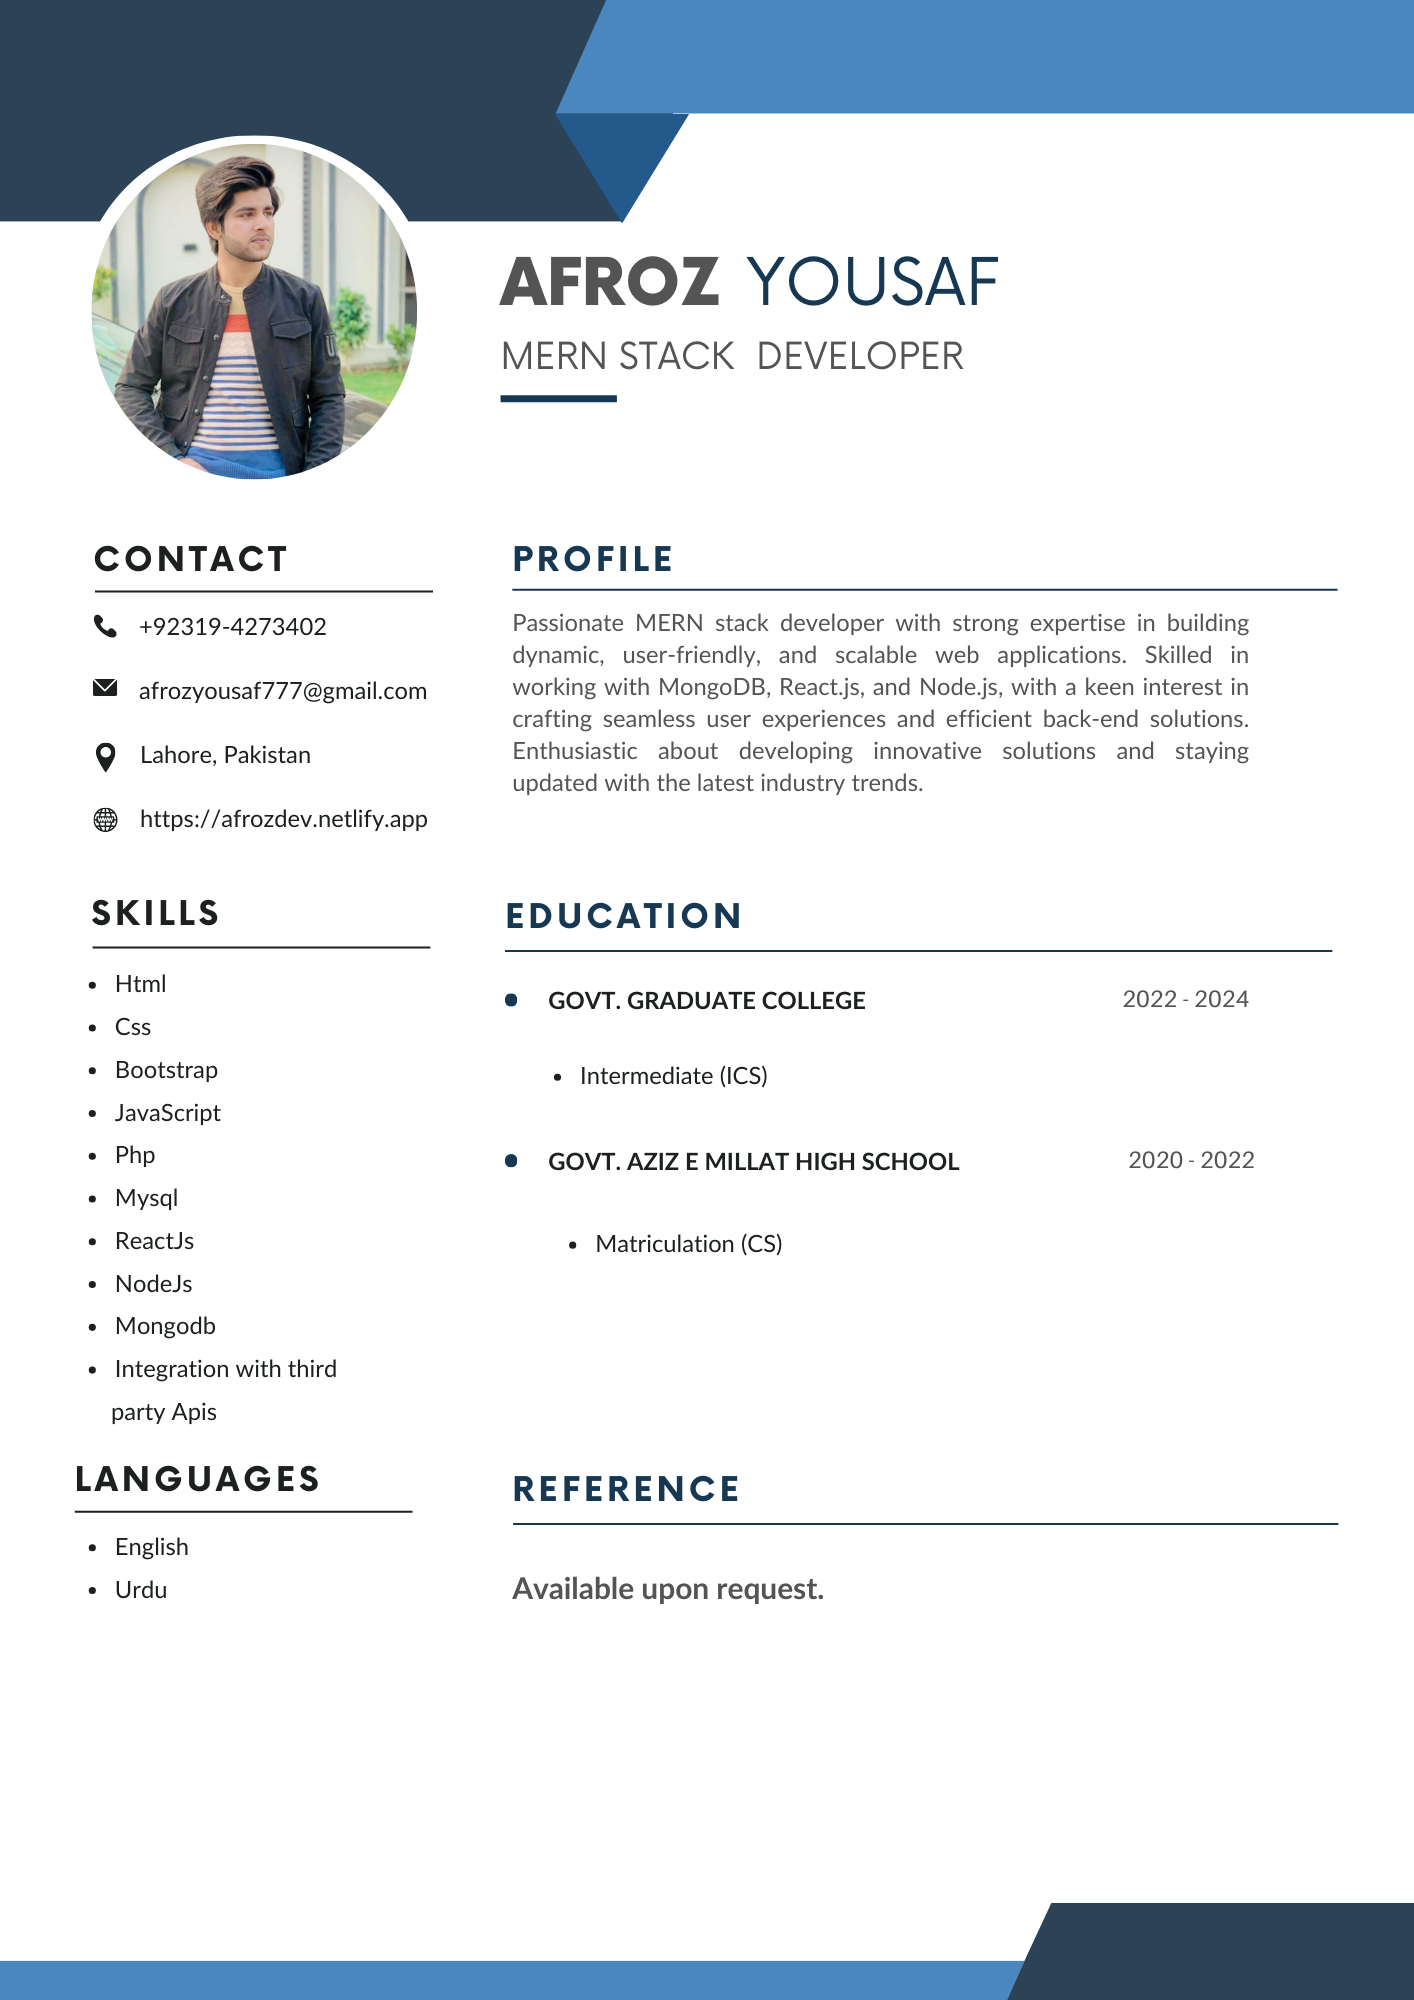
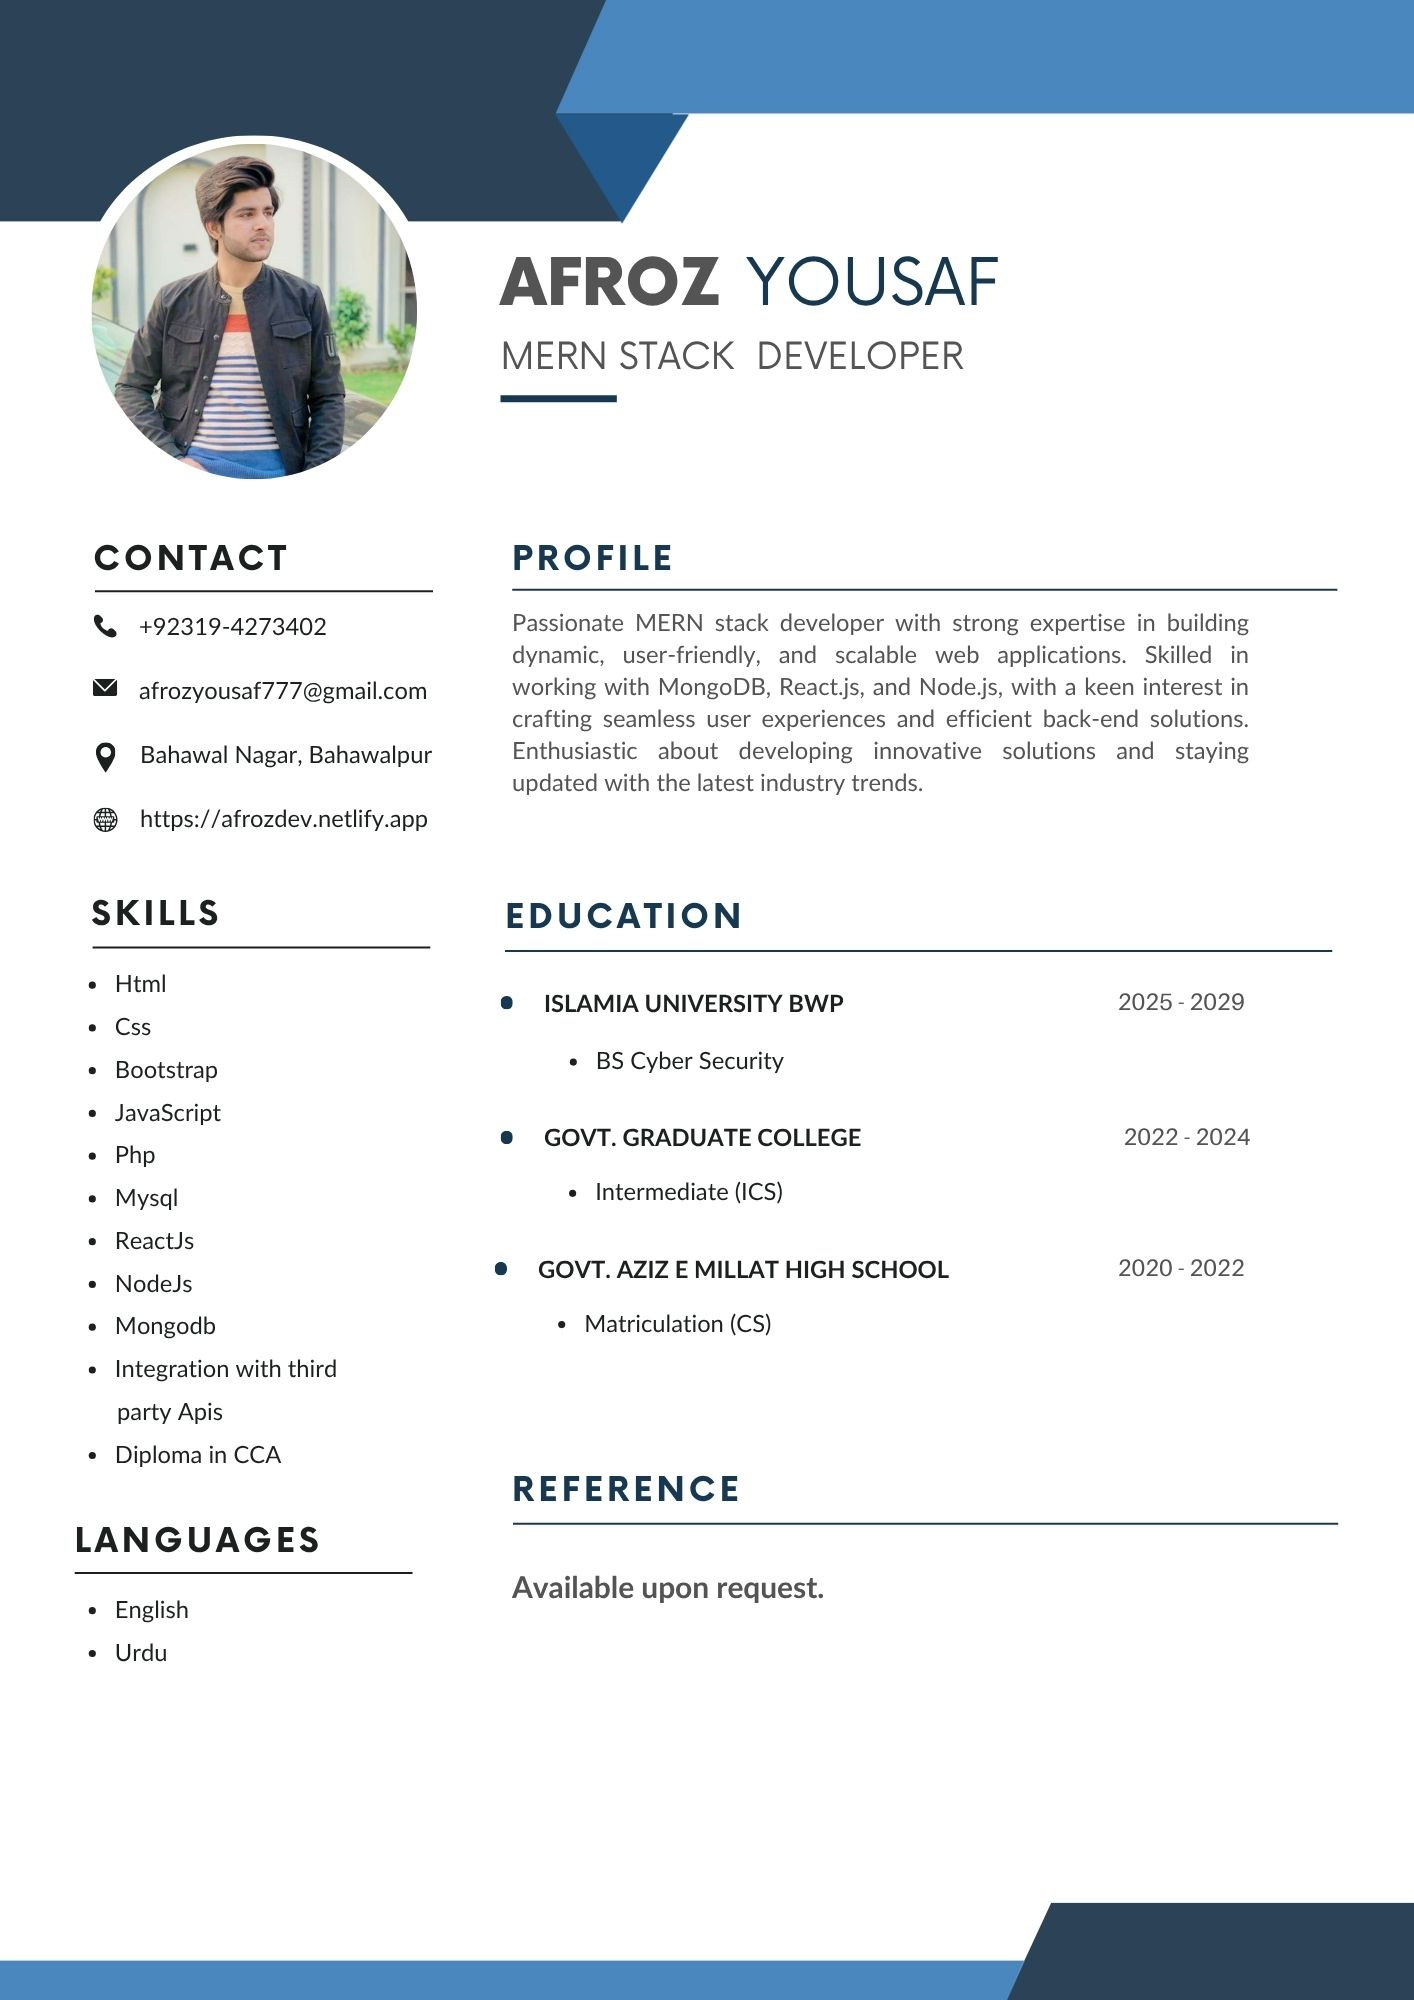
added new file

diff --git a/index.html b/index.html
@@ -123,10 +123,10 @@
                     <div class="education">
                         <h4><label>Education</label></h4>
                         <ul class="edu-list">
-                            <!-- <li class="item">
+                            <li class="item">
                                 <span class="year">2025-2029</span>
-                                <p><span>Bachelor's in Computer Science</span> - Riphah International University, Lahore</p>
-                            </li> -->
+                                <p><span>Bachelor's in Cyber Security</span> - Islamia University, Bahawalpur</p>
+                            </li>
                             <li class="item">
                                 <span class="year">2022-2024</span>
                                 <p><span>Intermediate (ICS)</span> - Graduate College, Bahawal Nagar</p>
